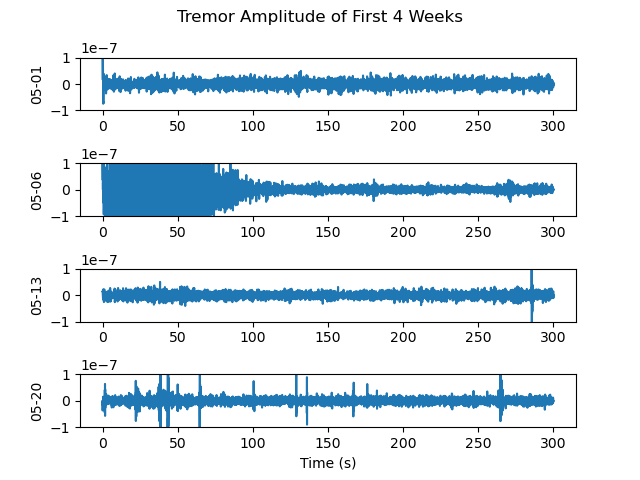
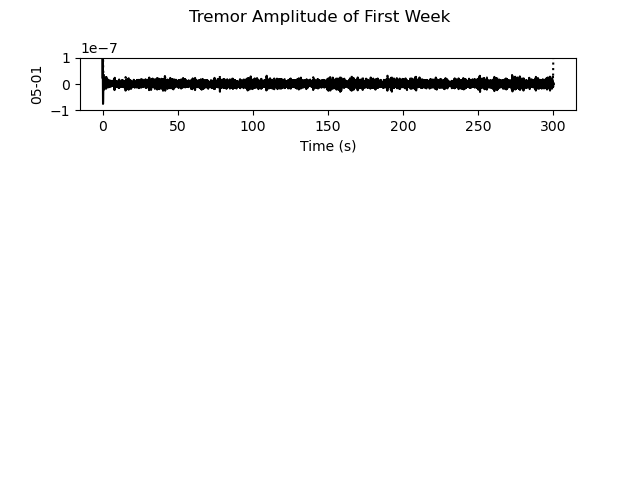
update bandpass filter and layer May 1, Aug 1

diff --git a/melt_season_comp.py b/melt_season_comp.py
@@ -6,18 +6,18 @@ import matplotlib.pyplot as plt
 import glob
 
 # define file path 
-data_path = '/data/stor/basic_data/seismic_data/day_vols/WOLVERINE/WOLN/'
-#data_path = '/data/stor/basic_data/seismic_data/day_vols/WOLVERINE/WOLC/'
-file_prefix = 'WOLN.XX.00.HHZ.2022.' 
-#file_prefix = 'WOLC.XX.00.HHZ.2022.' 
+#data_path = '/data/stor/basic_data/seismic_data/day_vols/WOLVERINE/WOLN/'
+data_path = '/data/stor/basic_data/seismic_data/day_vols/WOLVERINE/WOLC/'
+#file_prefix = 'WOLN.XX.00.HHZ.2022.' 
+file_prefix = 'WOLC.XX.00.HHZ.2022.' 
 
-fig = plt.figure(figsize=(35,6))
+fig = plt.figure(figsize=(20,6))
 
-melt_days = np.array([121,213]) # 
+#melt_days = np.array([182,213,121]) # 
+melt_days = np.array([182,213,122]) # 121 was not the right time period?? 
 
-#melt_days = np.array([123,213]) # 121 was not the right time period?? 
-
-a = 1
+colours = ['k','g','y']
+a = 0
 for day in melt_days: 
     pre_filt1 = [0.05, 0.1, 80, 100] #standard bandpass parameters to remove low and high freq. signal 
     station = obspy.read(data_path + file_prefix + str(day), format='MSEED')
@@ -26,23 +26,30 @@ for day in melt_days:
     station_rem.remove_response(inventory=instr_resp, water_level= None,pre_filt=pre_filt1)
 
     start = station_rem[0].stats.starttime
+    print(start)
     end = station_rem[0].stats.endtime
-    station_rem.trim(starttime=start+(20*60*60), endtime = start+(20*60*60)+60*5)
+    station_rem.trim(starttime=start+(20*60*60), endtime = start+(20*60*60)+60*10)
     station_rem_filt = station_rem.copy()
-    station_rem_filt.filter('bandpass',freqmin = 1, freqmax = 10,corners = 4,zerophase=True)
+    station_rem_filt.filter('bandpass',freqmin = 1.5, freqmax = 10,corners = 4,zerophase=True)
+    #data_envelope = obspy.signal.filter.envelope(station_rem_filt[0].data)
     t = np.arange(0, station_rem[0].stats.npts / station_rem[0].stats.sampling_rate, station_rem[0].stats.delta)
-    ax = plt.subplot(2, 1, a)
-    plt.subplots_adjust(hspace=1)
-    ax.plot(t, station_rem_filt[0].data) 
-    #plt.plot(t, station_rem_filt[0].data) # plot on top of each other add colour legend etc. * use melt days = np.array([213,121])
-    ax.set_ylim(-1*(10**-7), 1*(10**-7))
-    ax.set_title(station_rem[0].stats.starttime)
+    #ax = plt.subplot(2, 1, a)
+    #plt.subplots_adjust(hspace=1)
+    #ax.plot(t, station_rem_filt[0].data) 
+    plt.plot(t, station_rem_filt[0].data, colours[a]) # plot on top of each other add colour legend etc. * use melt days = np.array([213,121])
+    #plt.plot(t, data_envelope,colours[a]) 
+    plt.ylim(-1*(10**-7), 1*(10**-7))
+    #plt.set_title(station_rem[0].stats.starttime)
     #plt.ylabel(str(day))
-    plt.xlabel("Time (s)")
+    #plt.xlabel("Time (s)")
     a = a+1
 
+plt.legend(["July 1", "Aug 1", "May 2"], loc="upper left")
+plt.xlabel("Time (s)")
+plt.ylabel("Filtered Tremor Amplitude")
+plt.suptitle("Tremor Amplitude May 2nd, July 1st and August 1st for 10 minutes @ Noon")
 #fig.savefig('melt_compare_layered.png')
-fig.savefig('melt_compare_5min_WOLC.png')
+fig.savefig('melt_compare_10min_WOLC.png')
 
 
 

diff --git a/weekly_compare.py b/weekly_compare.py
@@ -14,7 +14,7 @@ fig = plt.figure()
 weekly_days = np.arange(119,260,7)
 weekly_days[0] = 121
 n = 0 # change based on month 
-weekly_days = weekly_days[4*n:4*n+4]
+weekly_days = weekly_days[4*n:4*n+1]
 print(weekly_days)
 a = 1
 for day in weekly_days: 
@@ -29,20 +29,23 @@ for day in weekly_days:
     end = station_rem[0].stats.endtime
     station_rem.trim(starttime=start+(20*60*60), endtime = start+(20*60*60)+60*5)
     station_rem_filt = station_rem.copy()
-    station_rem_filt.filter('bandpass',freqmin = 1, freqmax = 10,corners = 4,zerophase=True)
+    station_rem_filt.filter('bandpass',freqmin = 1.5, freqmax = 10,corners = 4,zerophase=True)
+    envelope = obspy.signal.filter.envelope(station_rem_filt[0].data)
     t = np.arange(0, station_rem[0].stats.npts / station_rem[0].stats.sampling_rate, station_rem[0].stats.delta)
-    ax = plt.subplot(4, 1, a)
+    ax = plt.subplot(1, 1, a)
     plt.subplots_adjust(hspace=1)
-    ax.plot(t, station_rem_filt[0].data) 
+    ax.plot(t, station_rem_filt[0].data, 'k') 
+    ax.plot(t, envelope, 'r:') 
     #plt.plot(t, station_rem_filt[0].data) # plot on top of each other add colour legend etc. * use melt days = np.array([213,121])
     ax.set_ylim(-1*(10**-7), 1*(10**-7))
     plt.ylabel(str_start[5:10])
     a = a+1
 
 plt.xlabel("Time (s)")
-plt.suptitle("Tremor Amplitude of ___ Weeks")
-fig.savefig('weekly_compare'+str(n)+'.png')
+plt.suptitle("Tremor Amplitude of First Week")
+fig.savefig('temp_weekly_compare'+str(n)+'.png')
 
+'''
 fig2 = plt.figure()
 a = 1
 for day in weekly_days: 
@@ -70,3 +73,4 @@ for day in weekly_days:
 plt.xlabel("Time (s)")
 plt.suptitle("Absolute Tremor Amplitude of 4 Weeks")
 fig2.savefig('weekly_compare_abs'+str(n)+'.png')
+'''

diff --git a/compare_wf_1min_filt.py b/compare_wf_1min_filt.py
@@ -28,14 +28,14 @@ station_rem.trim(starttime=start+(12*60*60), endtime = start+(12*60*60)+60*1)
 
 # Low Pass Filter 
 station_rem_lp_filt = station_rem.copy()
-station_rem_lp_filt.filter('lowpass',freq = 1.0, corners = 2,zerophase=True)
+station_rem_lp_filt.filter('lowpass',freq = 1.5, corners = 2,zerophase=True)
 #station_rem_lp_filt.plot(outfile='1min_' + str(day_num) + '_lowpass.png')
 
 station_rem_hp_filt = station_rem.copy()
 station_rem_hp_filt.filter('highpass',freq = 10, corners = 2,zerophase=True)
 
 station_rem_bp_filt = station_rem.copy()
-station_rem_bp_filt.filter('bandpass',freqmin = 1, freqmax = 10,corners = 4,zerophase=True)
+station_rem_bp_filt.filter('bandpass',freqmin = 1.5, freqmax = 10,corners = 4,zerophase=True)
 
 t = np.arange(0, station_rem[0].stats.npts / station_rem[0].stats.sampling_rate, station_rem[0].stats.delta)
 plt.subplot(411) #sharex=true

diff --git a/weekly_compare_data.py b/weekly_compare_data.py
@@ -36,7 +36,7 @@ for day in weekly_days:
     end = station_rem[0].stats.endtime
     station_rem.trim(starttime=start+(20*60*60), endtime = start+(20*60*60)+60*20)
     station_rem_filt = station_rem.copy()
-    station_rem_filt.filter('bandpass',freqmin = 1, freqmax = 10,corners = 4,zerophase=True)
+    station_rem_filt.filter('bandpass',freqmin = 1.5, freqmax = 10,corners = 4,zerophase=True)
     weekly_data = abs(station_rem_filt[0].data)
     average = stats.median(weekly_data)
     weekly_avg.append(average)
